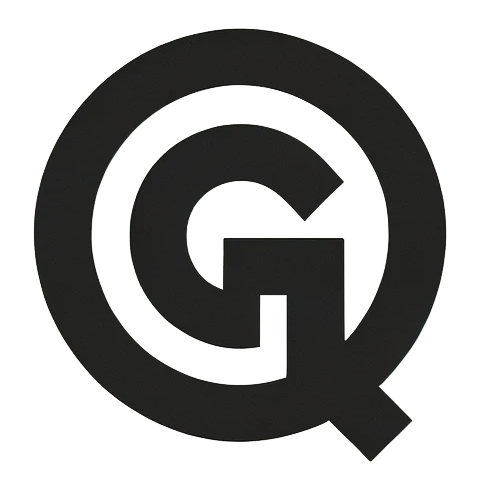
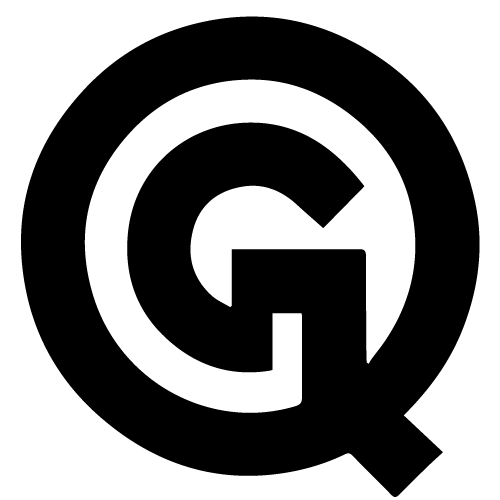
added api page load function

diff --git a/main.js b/main.js
@@ -8,7 +8,7 @@ const is_windows = process.platform === 'win32';
 const is_mac = process.platform === 'darwin';
 const is_linux = process.platform === 'linux';
 
-const { app, BrowserWindow, globalShortcut, Menu, Tray, clipboard, screen, shell, ipcMain } = require('electron')
+const { app, BrowserWindow, globalShortcut, Menu, Tray, clipboard, screen, shell, ipcMain, nativeTheme } = require('electron')
 
 const packageJson = require('./package.json');
 const version = packageJson.version;
@@ -30,7 +30,7 @@ function createWindow() {
             sandbox: true
         },
         show: true,
-        icon: path.join(__dirname, 'icons/icon.png'),
+        icon: path.join(__dirname, 'icons/icon_black.png'),
         alwaysOnTop: true
     })
 
@@ -122,7 +122,23 @@ function toggleWindow() {
 }
 
 function createTray() {
-    tray = new Tray(path.join(__dirname, 'icons/icon_trayx16.png'))
+
+    tray = new Tray(path.join(__dirname, './icons/icon_whitex16.png'))
+    // 現時点では自動でダーク・ライトモードの取得に失敗しているので，コメントアウトしておく．
+    // console.log("nativeTheme:", nativeTheme)
+    // if (nativeTheme.shouldUseDarkColors) {
+    //     tray = new Tray(path.join(__dirname, './icons/icon_whitex16.png'))
+    // } else {
+    //     tray = new Tray(path.join(__dirname, './icons/icon_blackx16.png'))
+    // }
+
+    // nativeTheme.on('updated', () => {
+    //     if (nativeTheme.shouldUseDarkColors) {
+    //         tray.setImage('icons/icon_blackx16.png');
+    //     } else {
+    //         tray.setImage('icons/icon_whitex16.png');
+    //     }
+    // });
 
     const contextMenu = Menu.buildFromTemplate([
         {
@@ -133,10 +149,17 @@ function createTray() {
             }
         },
         {
-            label: 'Reload',
-            accelerator: process.platform === 'darwin' ? 'Control+Shift+R' : 'Control+Shift+R',
+            label: 'Load ChatGPT Chat Page',
+            accelerator: process.platform === 'darwin' ? 'Control+Shift+C' : 'Control+Shift+C',
             click: () => {
                 mainWindow.loadURL('https://chat.openai.com/chat')
+            }
+        },
+        {
+            label: 'Load ChatGPT API Page',
+            accelerator: process.platform === 'darwin' ? 'Control+Shift+A' : 'Control+Shift+A',
+            click: () => {
+                mainWindow.loadURL('https://platform.openai.com/')
             }
         },
 
@@ -215,12 +238,21 @@ app.whenReady().then(() => {
         toggleWindow();
     })
 
-    globalShortcut.register('Control+Shift+R', () => {
+    globalShortcut.register('Control+Shift+C', () => {
         if (mainWindow && mainWindow.isDestroyed()) {
             mainWindow = craeteWindow();
         }
         else {
             mainWindow.loadURL('https://chat.openai.com/chat')
+        }
+    })
+
+    globalShortcut.register('Control+Shift+A', () => {
+        if (mainWindow && mainWindow.isDestroyed()) {
+            mainWindow = craeteWindow();
+        }
+        else {
+            mainWindow.loadURL('https://platform.openai.com/')
         }
     })
 })

diff --git a/README.md b/README.md
@@ -15,8 +15,9 @@ An application that instantly opens open ai chat (chat gpt) on your desktop
 ![](./teaser.png)
 
 ## Shortcut list
- - Control+Shift+G / Control+Shift+Q: Toggle window display
- - Control+Shift+R: Reload screen
+ - Control+Shift+Q: Toggle window display
+ - Control+Shift+C: Load ChatGPT Chat page
+ - Control+Shift+A: Load ChatGPT API page
 
 # Install
 
